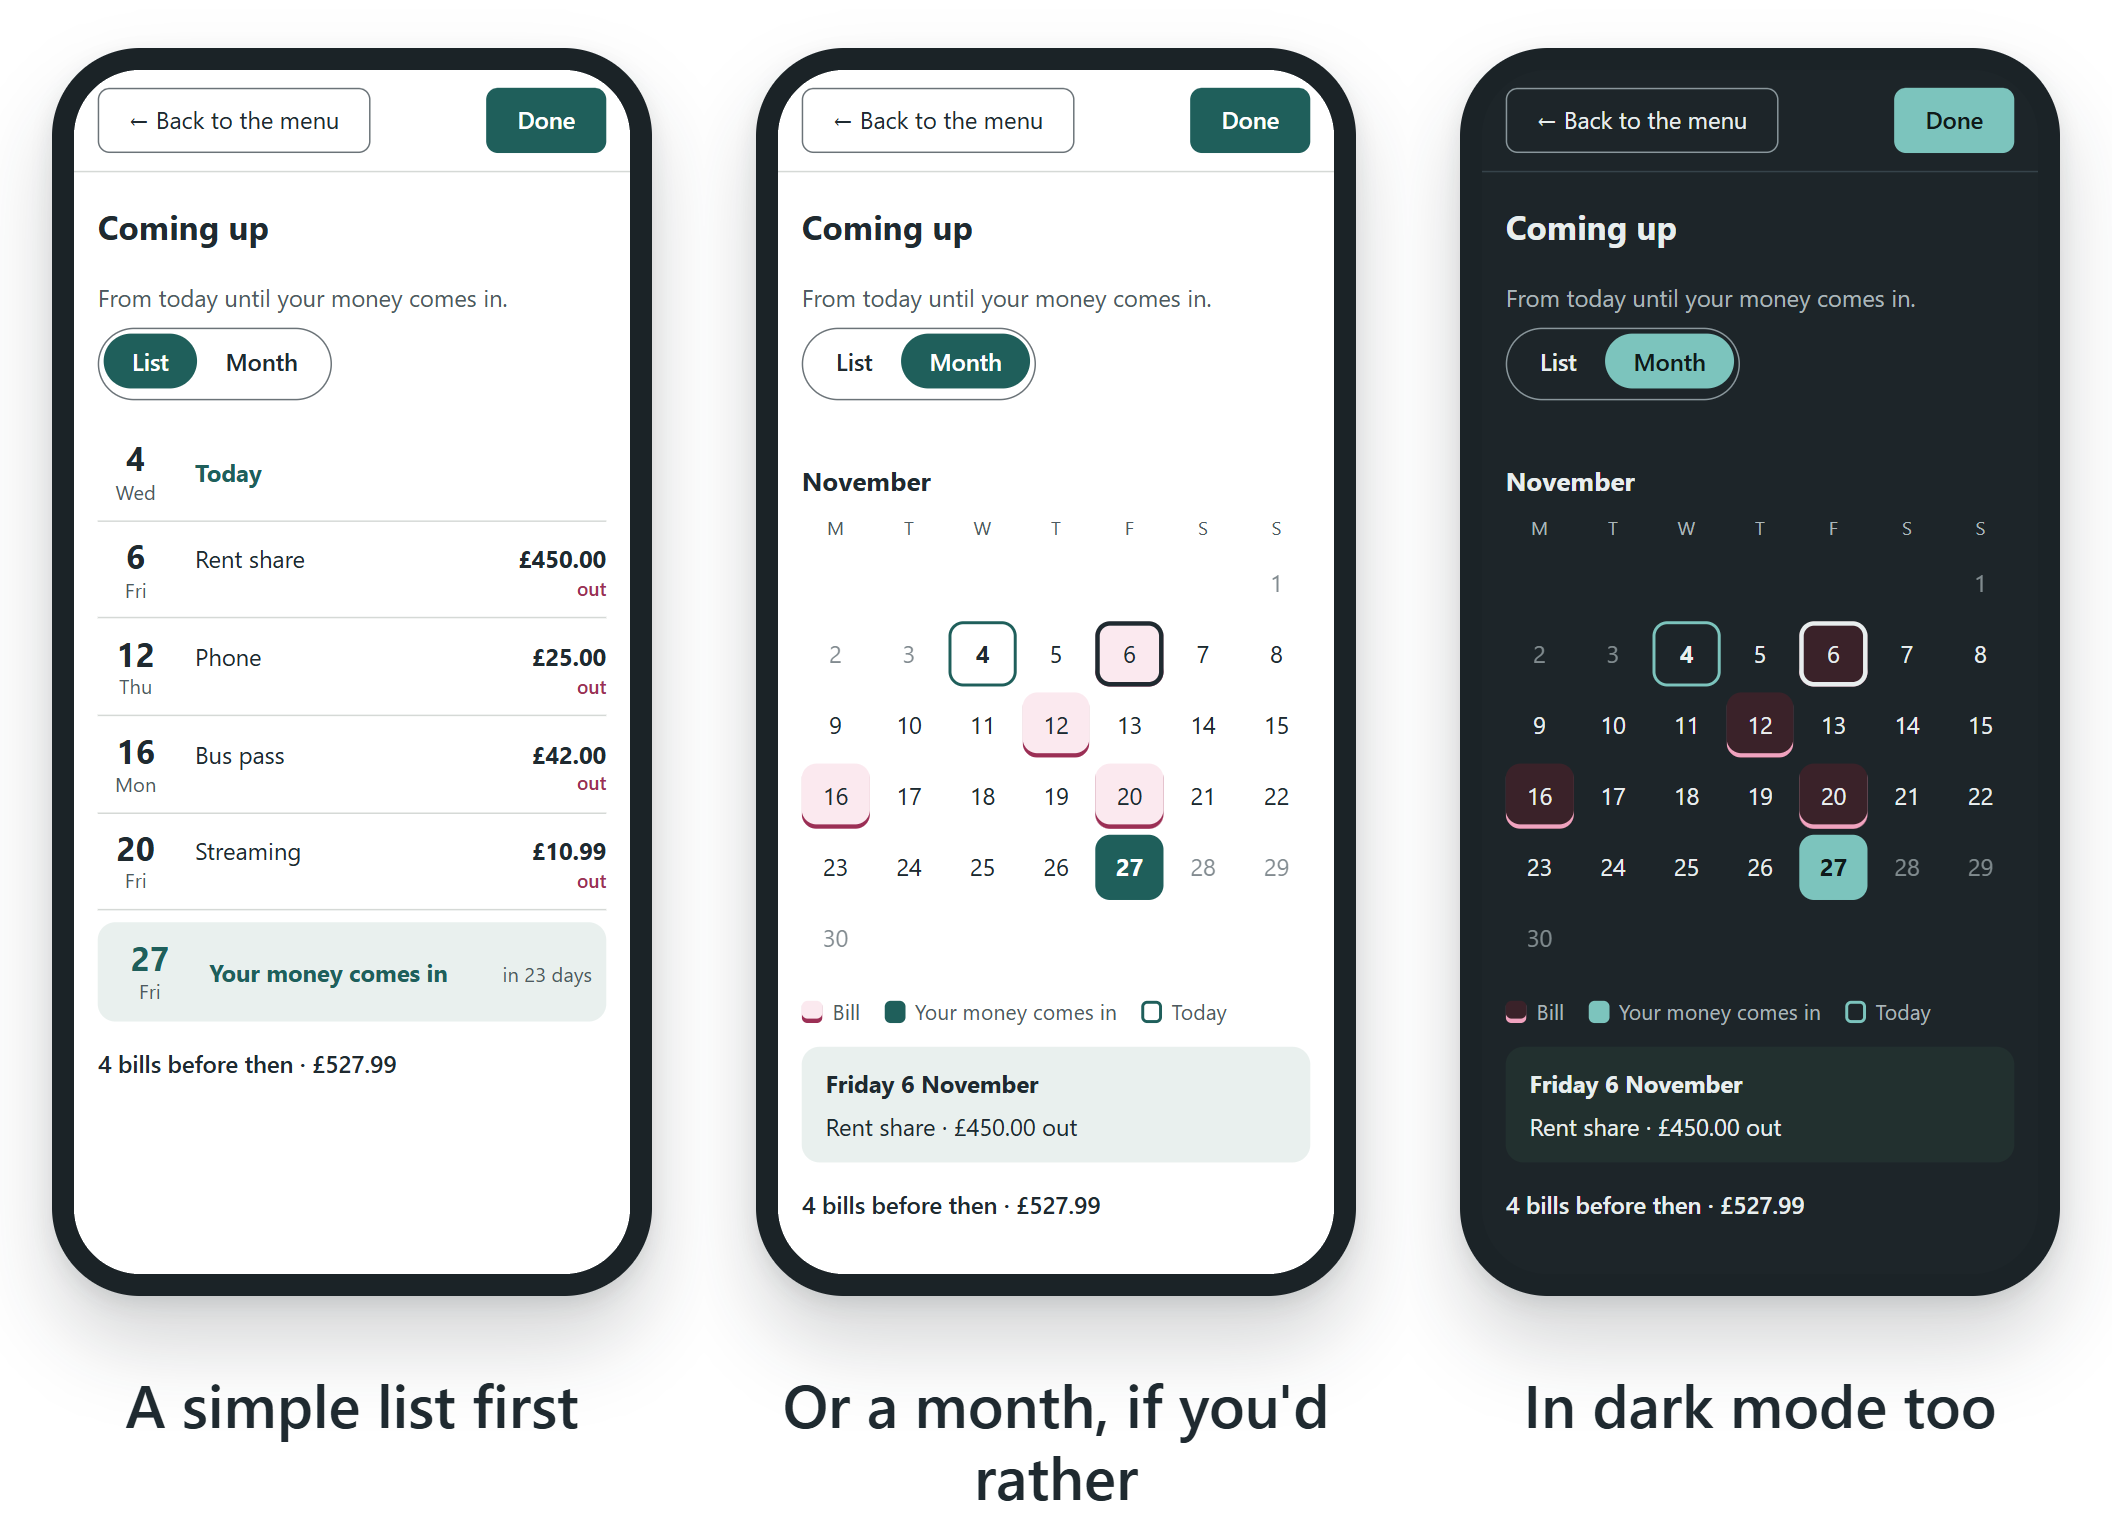
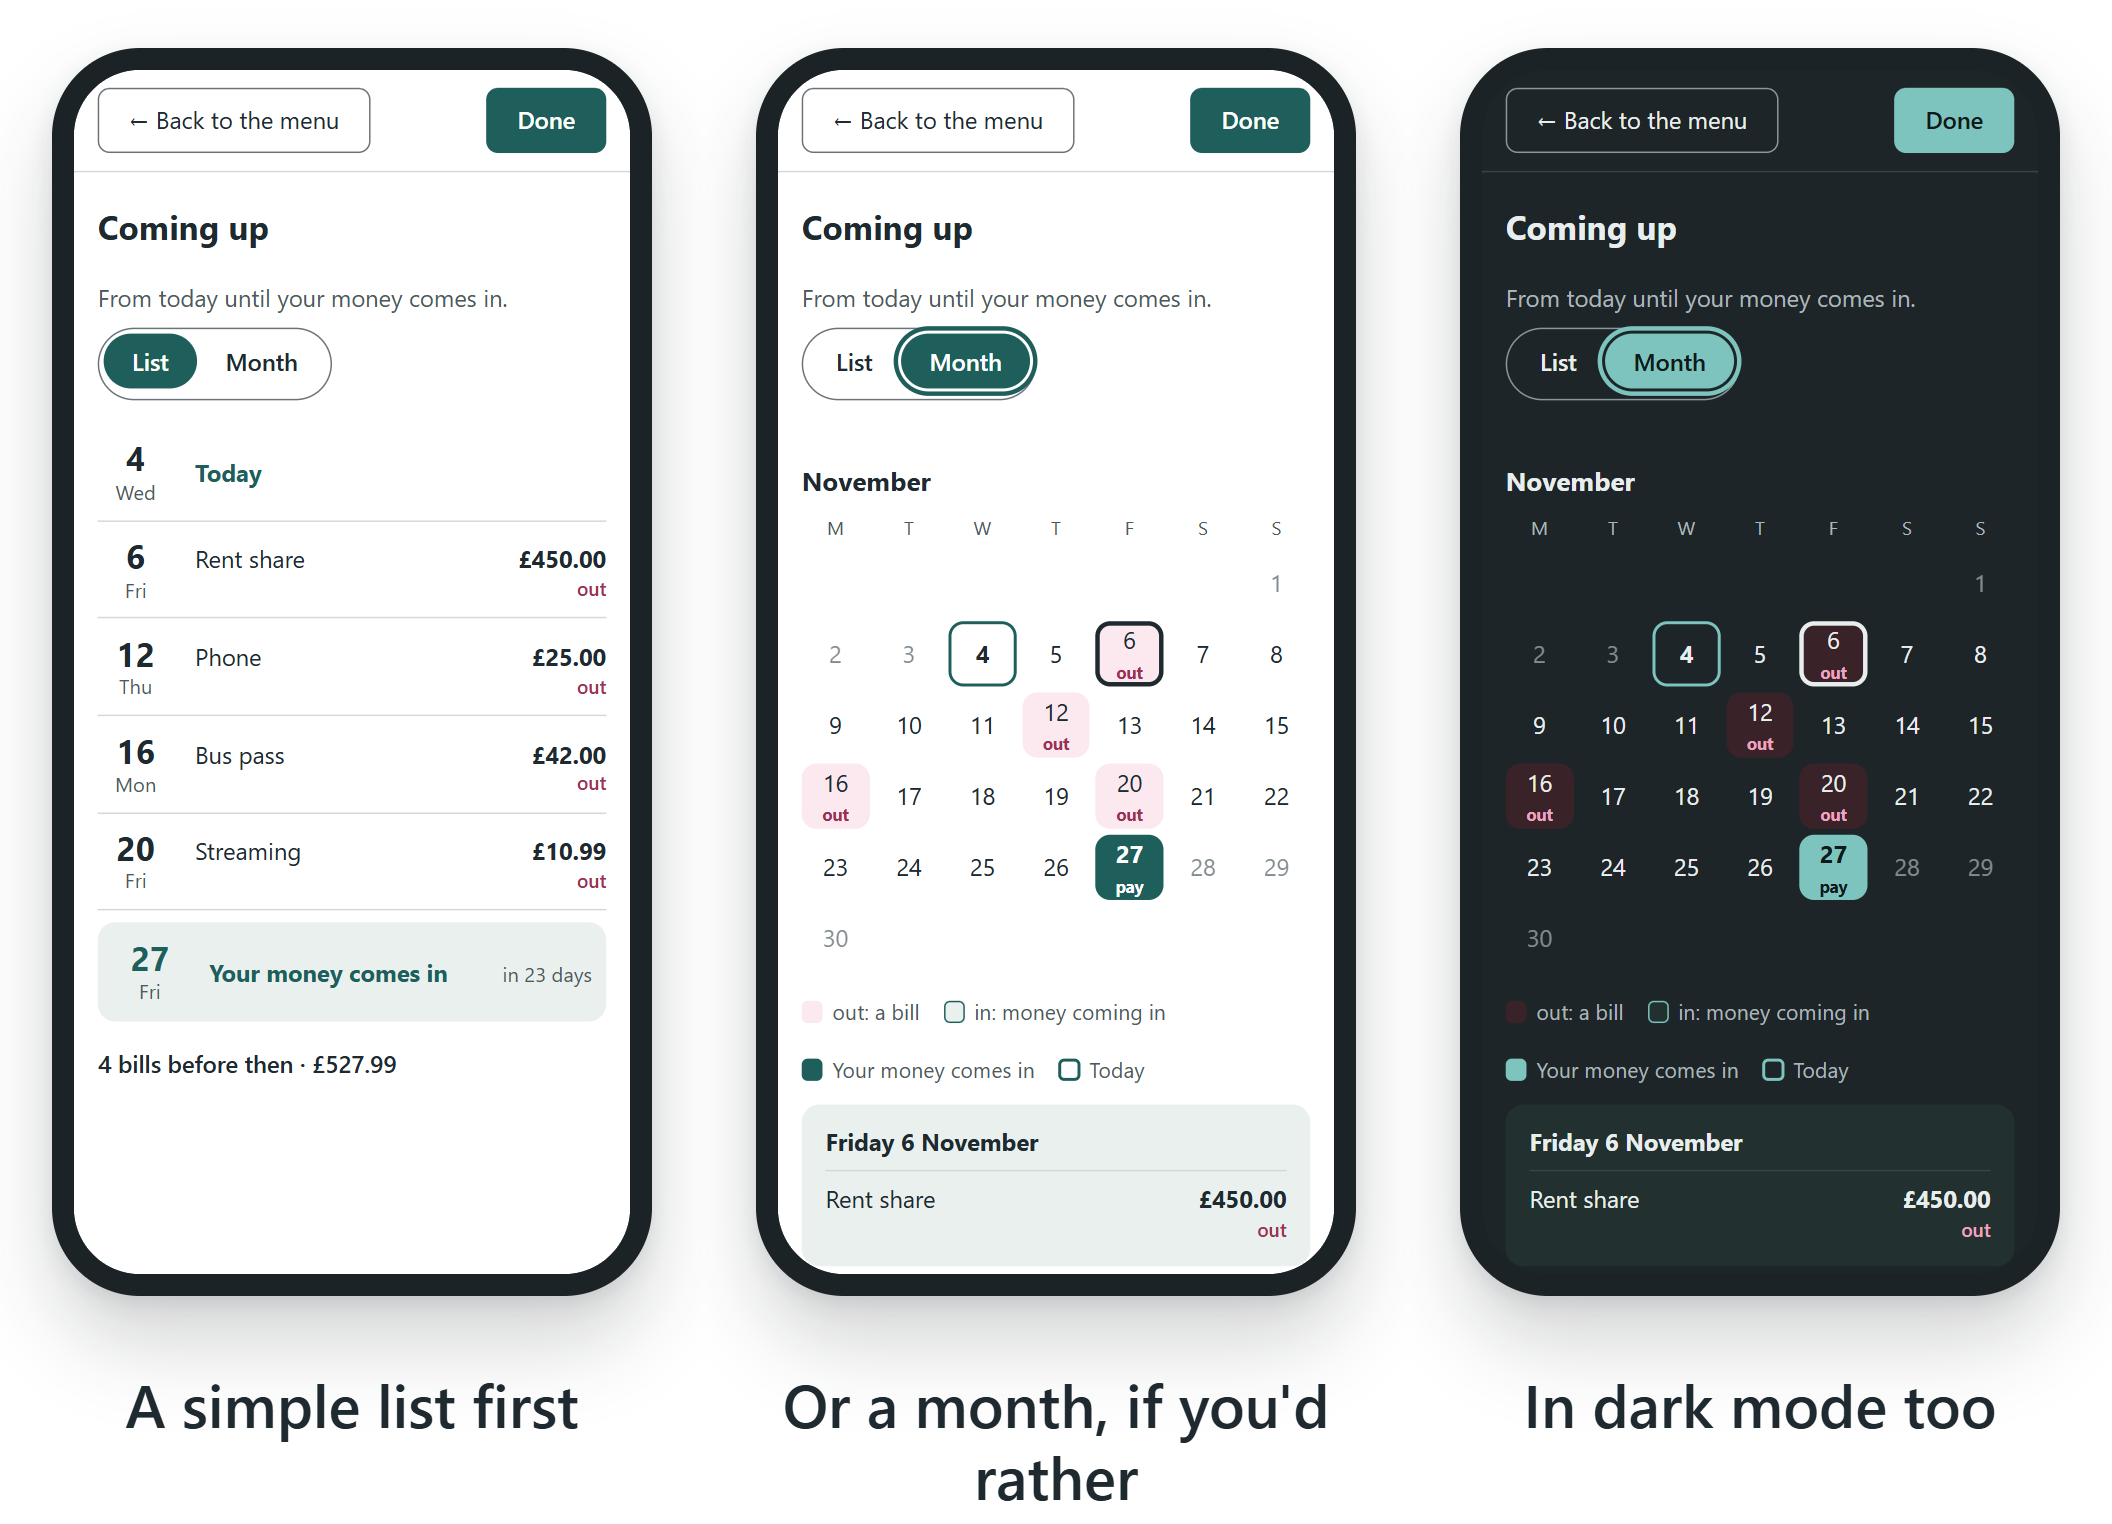
README: Coming up pictures show the new month
Month screens retaken for v0.25.1 (in / out / pay under each date, list-style
details). Alt text and the Coming up line updated.

diff --git a/README.md b/README.md
@@ -114,11 +114,11 @@ No account, no download.
 <p align="center">
   <picture>
     <source media="(prefers-color-scheme: dark)" srcset="docs/images/row-coming-up-dark.png">
-    <img src="docs/images/row-coming-up.png" alt="Three screens of Coming up: a simple list of bills and the day your money comes in; the same as a month, with bill days in soft pink and money day in teal; and the month in dark mode" width="100%">
+    <img src="docs/images/row-coming-up.png" alt="Three screens of Coming up: a simple list of bills and the day your money comes in; the same as a month, where each bill day says out, money coming in says in, and money day says pay; and the month in dark mode" width="100%">
   </picture>
 </p>
 
-- **Coming up** shows your bills and the day your money comes in, from today until then. Each amount says **in** or **out**. Switch between **List** and **Month**, and the app remembers which you like.
+- **Coming up** shows your bills and the day your money comes in, from today until then. Each amount says **in** or **out**. Switch between **List** and **Month**, and the app remembers which you like. In the month, each day says **in**, **out** or **pay** under the date.
 
 ### Make it yours
 
